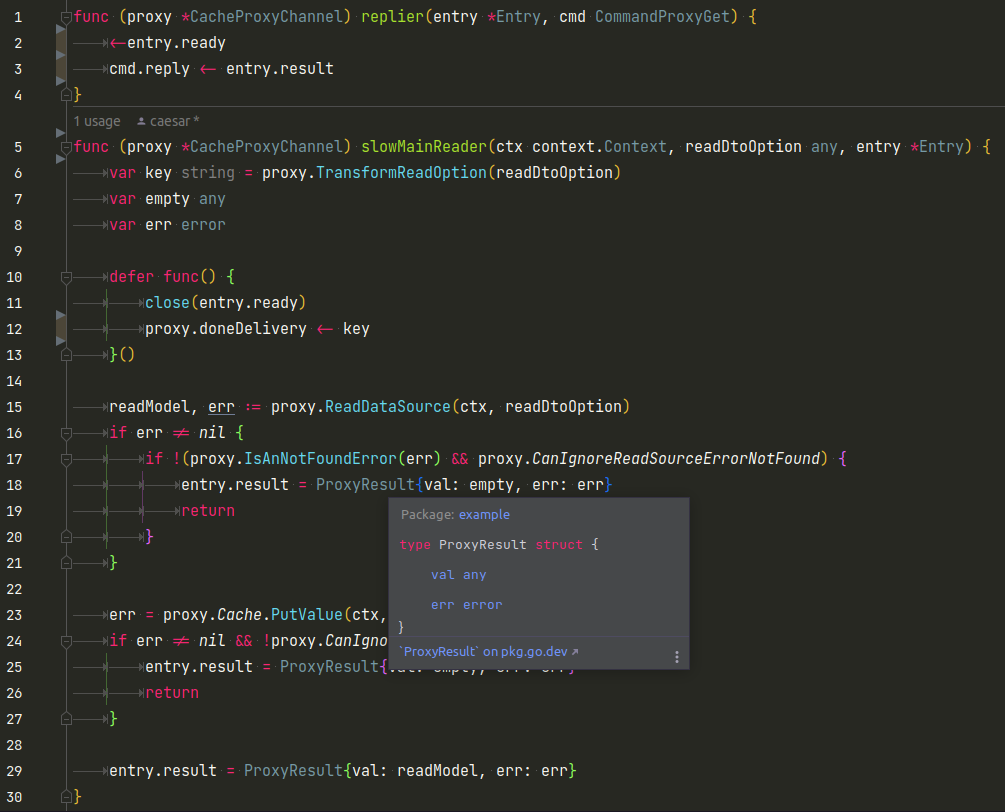
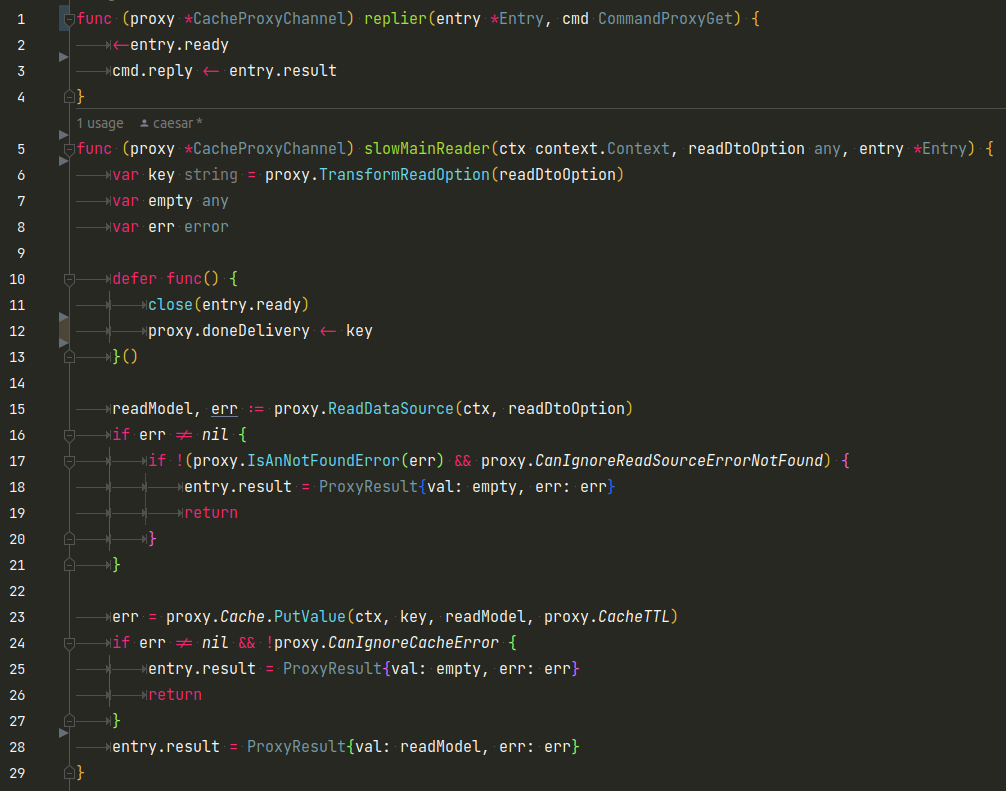
refactor: cache proxy channel

diff --git a/cache_proxy_channel.go b/cache_proxy_channel.go
@@ -164,16 +164,18 @@ func (proxy *CacheProxyChannel) slowMainReader(ctx context.Context, readDtoOptio
 	defer func() {
 		close(entry.ready)
 
-		go func() {
-			// workaround bug: double main read
-			//
-			// 原本以為是 bug
-			// 但看到下面的文章, 也可以想成, 用來控制 幾秒內 允許第二次 main read
-			// bug 變成 feature xd
-			// https://www.cyningsun.com/01-11-2021/golang-concurrency-singleflight.html
-			time.Sleep(time.Second)
-			proxy.doneDelivery <- key
-		}()
+		// 要注意順序
+		// close(chan) 一定要先執行, 通知所有 replier
+		// 再 send done
+
+		// workaround bug: double main read
+		//
+		// 原本以為是 bug
+		// 但看到下面的文章, 也可以想成, 用來控制 幾秒內 允許第二次 main read
+		// bug 變成 feature xd
+		// https://www.cyningsun.com/01-11-2021/golang-concurrency-singleflight.html
+		time.Sleep(time.Second)
+		proxy.doneDelivery <- key
 	}()
 
 	readModel, err := proxy.ReadDataSource(ctx, readDtoOption)

diff --git a/cache_proxy_impl_test.go b/cache_proxy_impl_test.go
@@ -9,7 +9,7 @@ import (
 	"time"
 )
 
-const userCount = int(2e2)
+const userCount = int(2e3)
 
 func TestCacheProxyMutex_ReadValue(t *testing.T) {
 	// arrange

diff --git a/readme.md b/readme.md
@@ -1,4 +1,4 @@
-# 傳遞 message 來撰寫程式, 在 golang 是怎樣的體驗
+# 傳遞 message 來撰寫程式, 在 golang 應該如何思考
 
 實現一個 簡易的 cache proxy  
 藉由  concurrency 的情景, 提供數種程式的撰寫方式  
@@ -7,6 +7,15 @@
 ## slide
 
 <https://docs.google.com/presentation/d/1yctNKOoct49OEj7jZtKfVjrnZifABWbWxfpJ3MM2D9w>
+
+## cache proxy implimentation
+
+- [global lock proxy](./cache_proxy_mutex.go)
+- [channel proxy](./cache_proxy_channel.go)
+- [shard lock proxy](./cache_proxy_sync_map.go)
+- [singleflight proxy](./cache_proxy_singleflight.go)
+
+![channel impl data flow](./asset/channel%202.gif)
 
 ## reference
 
@@ -19,6 +28,7 @@
 7. [clean-arch (Tung 東東)](https://docs.google.com/presentation/d/1ouNiohGRcl5m_uGNrwlHuZ_hAXH13joLGTtkkxyJ8eY/edit#slide=id.g1c2a9713f29_0_1)
 8. [Hardware Memory Models](https://research.swtch.com/hwmm)
 9. [How Does Golang Channel Works](https://levelup.gitconnected.com/how-does-golang-channel-works-6d66acd54753)
+10. [Mutex Or Channel](https://github.com/golang/go/wiki/MutexOrChannel)
 
 ## benchmark
 
